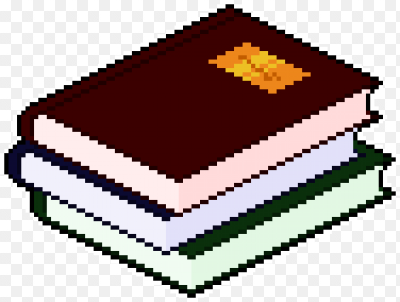
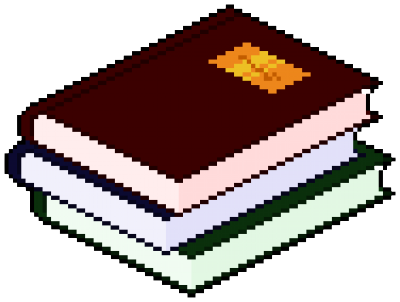
Update pictures

diff --git a/Tricky_clicker.py b/Tricky_clicker.py
@@ -39,27 +39,27 @@ img_dir = path.join(path.dirname(__file__), 'img2')
 book1 = pygame.image.load(path.join(img_dir, 'book1.png')).convert()
 book1 = pygame.transform.scale(book1, (CELLSIZE, CELLSIZE))
 
-book2 = pygame.image.load(path.join(img_dir, 'book2.jpg')).convert()
+book2 = pygame.image.load(path.join(img_dir, 'book2.png')).convert()
 book2 = pygame.transform.scale(book2, (CELLSIZE, CELLSIZE))
 
 closed = pygame.image.load(path.join(img_dir, 'closed.png')).convert()
 
-comp = pygame.image.load(path.join(img_dir, 'comp.jpg')).convert()
+comp = pygame.image.load(path.join(img_dir, 'comp.png')).convert()
 comp = pygame.transform.scale(comp, (CELLSIZE, CELLSIZE))
 
 empty = pygame.image.load(path.join(img_dir, 'empty.jpg')).convert()
 empty = pygame.transform.scale(empty, (CELLSIZE, CELLSIZE))
 
-energy = pygame.image.load(path.join(img_dir, 'energy.jpg')).convert()
+energy = pygame.image.load(path.join(img_dir, 'energy.png')).convert()
 energy = pygame.transform.scale(energy, (CELLSIZE, CELLSIZE))
 
-energy2 = pygame.image.load(path.join(img_dir, 'energy2.jpg')).convert()
+energy2 = pygame.image.load(path.join(img_dir, 'energy2.png')).convert()
 energy2 = pygame.transform.scale(energy2, (CELLSIZE, CELLSIZE))
 
 heart = pygame.image.load(path.join(img_dir, 'heart.png')).convert()
 heart = pygame.transform.scale(heart, (CELLSIZE, CELLSIZE))
 
-money = pygame.image.load(path.join(img_dir, 'money.jpg')).convert()
+money = pygame.image.load(path.join(img_dir, 'money.png')).convert()
 money = pygame.transform.scale(money, (CELLSIZE, CELLSIZE))
 
 
